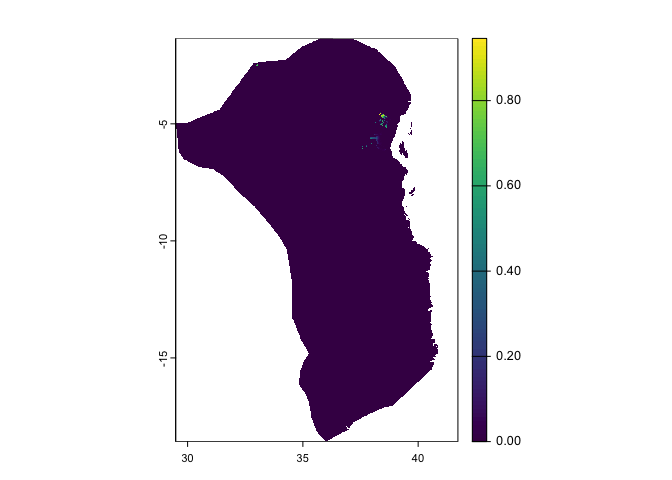
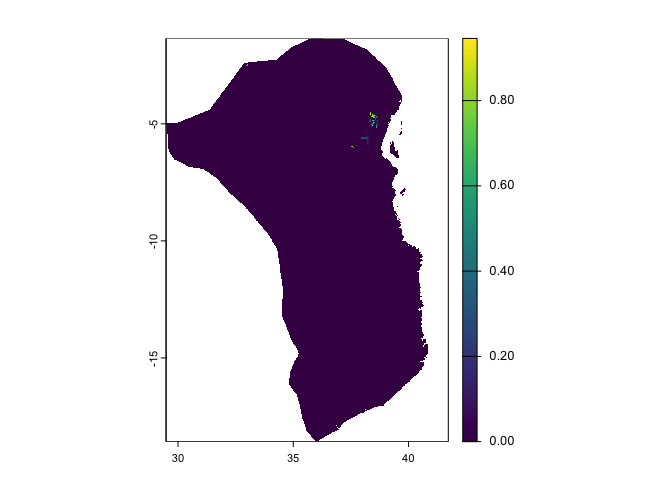
Redoing figures, adding more information on authors.

diff --git a/Appendix1.md b/Appendix1.md
@@ -1,8 +1,12 @@
 Appendix 1: *Artisornis moreaui* Distribution Modelling
 ================
-Jacob C. Cooper et al.
+Jacob C. Cooper
 
 # Introduction
+
+Code written by Jacob C. Cooper; manuscript authors are: Norbert J.
+Cordeiro, Jacob C. Cooper, Victor Mkongewa, Martin Joho, Jasson John &
+P. Kariuki Ndang’ang’a.
 
 This pipeline performs distribution analyses for *Artisornis moreaui*,
 an endemic species found only in the East Usambara, Tanzania. (Note:
@@ -73,9 +77,9 @@ utms <- cbind(arti_surveys$UTM_East,
   vect(type="points",crs="+proj=utm +zone=37 +south=T +east=T +datum=WGS84 +units=m")
 ```
 
-    ## Warning in p@ptr$setPointsXY(as.double(x[, 1]), as.double(x[, 2])): NAs
+    ## Warning in p@pntr$setPointsXY(as.double(x[, 1]), as.double(x[, 2])): NAs
     ## introduced by coercion
-    ## Warning in p@ptr$setPointsXY(as.double(x[, 1]), as.double(x[, 2])): NAs
+    ## Warning in p@pntr$setPointsXY(as.double(x[, 1]), as.double(x[, 2])): NAs
     ## introduced by coercion
 
 ``` r
@@ -116,13 +120,13 @@ write_csv(converted_data,paste0(filepath,"converted_coords.csv"))
 summary(converted_data)
 ```
 
-    ##       Date                          No_of_inds     UTM_North      
-    ##  Min.   :2006-01-14 00:00:00.00   Min.   :1.00   Min.   :9427654  
-    ##  1st Qu.:2008-05-08 00:00:00.00   1st Qu.:1.00   1st Qu.:9432568  
-    ##  Median :2010-09-06 00:00:00.00   Median :2.00   Median :9434292  
-    ##  Mean   :2011-05-14 19:57:57.75   Mean   :1.57   Mean   :9435884  
-    ##  3rd Qu.:2014-09-19 00:00:00.00   3rd Qu.:2.00   3rd Qu.:9436599  
-    ##  Max.   :2017-07-12 00:00:00.00   Max.   :4.00   Max.   :9458649  
+    ##       Date                       No_of_inds     UTM_North      
+    ##  Min.   :2006-01-14 00:00:00   Min.   :1.00   Min.   :9427654  
+    ##  1st Qu.:2008-05-08 00:00:00   1st Qu.:1.00   1st Qu.:9432568  
+    ##  Median :2010-09-06 00:00:00   Median :2.00   Median :9434292  
+    ##  Mean   :2011-05-14 19:57:57   Mean   :1.57   Mean   :9435884  
+    ##  3rd Qu.:2014-09-19 00:00:00   3rd Qu.:2.00   3rd Qu.:9436599  
+    ##  Max.   :2017-07-12 00:00:00   Max.   :4.00   Max.   :9458649  
     ##     UTM_East        Longitude        Latitude     
     ##  Min.   :452813   Min.   :38.57   Min.   :-5.178  
     ##  1st Qu.:455025   1st Qu.:38.59   1st Qu.:-5.133  
@@ -368,7 +372,7 @@ library(kuenm)
 library(curl)
 ```
 
-    ## Using libcurl 8.7.1 with LibreSSL/3.3.6
+    ## Using libcurl 8.14.1 with LibreSSL/3.3.6
 
     ## 
     ## Attaching package: 'curl'
@@ -744,7 +748,7 @@ library(terra)
 library(sf)
 ```
 
-    ## Linking to GEOS 3.11.0, GDAL 3.5.3, PROJ 9.1.0; sf_use_s2() is TRUE
+    ## Linking to GEOS 3.13.0, GDAL 3.8.5, PROJ 9.5.1; sf_use_s2() is TRUE
 
 ``` r
 library(tidyverse)
@@ -889,6 +893,10 @@ allparks <- vect(paste0(filepath,"ne_tz_parks.gpkg"))
 
 parks <- allparks[allparks$NAME%like%"Nilo"|allparks$NAME%like%"Amani"]
 
+# png(paste0(filepath, "cordeiro_fig1.png"), 
+#     width = 100, height = 100, 
+#     units = "mm", res = 300)
+
 plot(pts_vect,pch=19,col="darkgrey",
      xlab = "Longitude",ylab = "Latitude",
      xlim=c(38.45,38.75))
@@ -916,6 +924,10 @@ sbar(5,xy = c(38.5,-5),below = "km",adj = c(0.5,-1.5))
 ```
 
 ![](Appendix1_files/figure-gfm/unnamed-chunk-61-1.png)<!-- -->
+
+``` r
+# dev.off()
+```
 
 ``` r
 polyx <- rbind(poly1,poly2,poly3,
@@ -1093,6 +1105,9 @@ for(i in 0:8){
 ``` r
 pop_points2_tab <- table(pop_points2$Population) %>% as.numeric()
 
+# png(paste0(filepath,"cordeiro_fig3.png"), 
+#     width = 100, height = 100, 
+#     units = "mm", res = 300)
 barplot((pop_points2_tab),
         names.arg = 0:(length(pop_points2_tab)-1),
         xlab = "Population",
@@ -1100,6 +1115,10 @@ barplot((pop_points2_tab),
 ```
 
 ![](Appendix1_files/figure-gfm/unnamed-chunk-72-1.png)<!-- -->
+
+``` r
+# dev.off()
+```
 
 ``` r
 pop_points2 <- pop_points2 %>%
@@ -1192,13 +1211,16 @@ sbar(5,xy = c(38.5,-5.05),below = "km",adj = c(0.5,-1.5))
 ```
 
 ``` r
+# png(paste0(filepath,"cordeiro_fig2B.png"), 
+#     width = 167, height = 100, 
+#     units = "mm", res = 300)
 opar <- par(no.readonly = TRUE)
 # use par to add legend next to plot
 par(mar = c(5,5,4,8))
 baseplot(pts_vect)
 legend("topright",legend = c("Occurrence Area","Forest",
                              "PAs","PAs + Forest"),
-           fill = c("black","blue","red","purple"),
+           fill = c("black","#CCCDFF","#FFCDCD","#CBA6D9"),
        border = "black",xpd = TRUE, inset = c(-0.05,0))
 ```
 
@@ -1206,9 +1228,13 @@ legend("topright",legend = c("Occurrence Area","Forest",
 
 ``` r
 on.exit(par(opar))
+# dev.off()
 ```
 
 ``` r
+# png(paste0(filepath,"cordeiro_fig2A.png"), 
+#     width = 125, height = 100, 
+#     units = "mm", res = 300)
 # create base plot
 plot(pts_vect,pch=".",col="black",
      xlab = "Longitude",ylab = "Latitude",
@@ -1229,6 +1255,10 @@ sbar(5,xy = c(38.48,-5.05),below = "km",adj = c(0.5,-1.5))
 ```
 
 ![](Appendix1_files/figure-gfm/unnamed-chunk-81-1.png)<!-- -->
+
+``` r
+# dev.off()
+```
 
 ## Differences between models
 
@@ -1556,8 +1586,9 @@ citation("concaveman")
     ## To cite package 'concaveman' in publications use:
     ## 
     ##   Gombin J, Vaidyanathan R, Agafonkin V (2020). _concaveman: A Very
-    ##   Fast 2D Concave Hull Algorithm_. R package version 1.1.0,
-    ##   <https://CRAN.R-project.org/package=concaveman>.
+    ##   Fast 2D Concave Hull Algorithm_. doi:10.32614/CRAN.package.concaveman
+    ##   <https://doi.org/10.32614/CRAN.package.concaveman>, R package version
+    ##   1.1.0, <https://CRAN.R-project.org/package=concaveman>.
     ## 
     ## A BibTeX entry for LaTeX users is
     ## 
@@ -1567,6 +1598,7 @@ citation("concaveman")
     ##     year = {2020},
     ##     note = {R package version 1.1.0},
     ##     url = {https://CRAN.R-project.org/package=concaveman},
+    ##     doi = {10.32614/CRAN.package.concaveman},
     ##   }
 
 ``` r
@@ -1575,17 +1607,20 @@ citation("curl")
 
     ## To cite package 'curl' in publications use:
     ## 
-    ##   Ooms J (2024). _curl: A Modern and Flexible Web Client for R_. R
-    ##   package version 5.2.3, <https://CRAN.R-project.org/package=curl>.
+    ##   Ooms J (2025). _curl: A Modern and Flexible Web Client for R_.
+    ##   doi:10.32614/CRAN.package.curl
+    ##   <https://doi.org/10.32614/CRAN.package.curl>, R package version
+    ##   6.4.0, <https://CRAN.R-project.org/package=curl>.
     ## 
     ## A BibTeX entry for LaTeX users is
     ## 
     ##   @Manual{,
     ##     title = {curl: A Modern and Flexible Web Client for R},
     ##     author = {Jeroen Ooms},
-    ##     year = {2024},
-    ##     note = {R package version 5.2.3},
+    ##     year = {2025},
+    ##     note = {R package version 6.4.0},
     ##     url = {https://CRAN.R-project.org/package=curl},
+    ##     doi = {10.32614/CRAN.package.curl},
     ##   }
 
 ``` r
@@ -1595,18 +1630,20 @@ citation("data.table")
     ## To cite package 'data.table' in publications use:
     ## 
     ##   Barrett T, Dowle M, Srinivasan A, Gorecki J, Chirico M, Hocking T,
-    ##   Schwendinger B (2024). _data.table: Extension of `data.frame`_. R
-    ##   package version 1.16.0,
-    ##   <https://CRAN.R-project.org/package=data.table>.
+    ##   Schwendinger B, Krylov I (2025). _data.table: Extension of
+    ##   `data.frame`_. doi:10.32614/CRAN.package.data.table
+    ##   <https://doi.org/10.32614/CRAN.package.data.table>, R package version
+    ##   1.17.8, <https://CRAN.R-project.org/package=data.table>.
     ## 
     ## A BibTeX entry for LaTeX users is
     ## 
     ##   @Manual{,
     ##     title = {data.table: Extension of `data.frame`},
-    ##     author = {Tyson Barrett and Matt Dowle and Arun Srinivasan and Jan Gorecki and Michael Chirico and Toby Hocking and Benjamin Schwendinger},
-    ##     year = {2024},
-    ##     note = {R package version 1.16.0},
+    ##     author = {Tyson Barrett and Matt Dowle and Arun Srinivasan and Jan Gorecki and Michael Chirico and Toby Hocking and Benjamin Schwendinger and Ivan Krylov},
+    ##     year = {2025},
+    ##     note = {R package version 1.17.8},
     ##     url = {https://CRAN.R-project.org/package=data.table},
+    ##     doi = {10.32614/CRAN.package.data.table},
     ##   }
 
 ``` r
@@ -1616,17 +1653,20 @@ citation("geosphere")
 
     ## To cite package 'geosphere' in publications use:
     ## 
-    ##   Hijmans R (2022). _geosphere: Spherical Trigonometry_. R package
-    ##   version 1.5-18, <https://CRAN.R-project.org/package=geosphere>.
+    ##   Hijmans R (2024). _geosphere: Spherical Trigonometry_.
+    ##   doi:10.32614/CRAN.package.geosphere
+    ##   <https://doi.org/10.32614/CRAN.package.geosphere>, R package version
+    ##   1.5-20, <https://CRAN.R-project.org/package=geosphere>.
     ## 
     ## A BibTeX entry for LaTeX users is
     ## 
     ##   @Manual{,
     ##     title = {geosphere: Spherical Trigonometry},
     ##     author = {Robert J. Hijmans},
-    ##     year = {2022},
-    ##     note = {R package version 1.5-18},
+    ##     year = {2024},
+    ##     note = {R package version 1.5-20},
     ##     url = {https://CRAN.R-project.org/package=geosphere},
+    ##     doi = {10.32614/CRAN.package.geosphere},
     ##   }
 
 ``` r
@@ -1681,17 +1721,20 @@ citation("readxl")
 
     ## To cite package 'readxl' in publications use:
     ## 
-    ##   Wickham H, Bryan J (2023). _readxl: Read Excel Files_. R package
-    ##   version 1.4.3, <https://CRAN.R-project.org/package=readxl>.
+    ##   Wickham H, Bryan J (2025). _readxl: Read Excel Files_.
+    ##   doi:10.32614/CRAN.package.readxl
+    ##   <https://doi.org/10.32614/CRAN.package.readxl>, R package version
+    ##   1.4.5, <https://CRAN.R-project.org/package=readxl>.
     ## 
     ## A BibTeX entry for LaTeX users is
     ## 
     ##   @Manual{,
     ##     title = {readxl: Read Excel Files},
     ##     author = {Hadley Wickham and Jennifer Bryan},
-    ##     year = {2023},
-    ##     note = {R package version 1.4.3},
+    ##     year = {2025},
+    ##     note = {R package version 1.4.5},
     ##     url = {https://CRAN.R-project.org/package=readxl},
+    ##     doi = {10.32614/CRAN.package.readxl},
     ##   }
 
 ``` r
@@ -1701,8 +1744,9 @@ citation("rnaturalearth")
     ## To cite package 'rnaturalearth' in publications use:
     ## 
     ##   Massicotte P, South A (2023). _rnaturalearth: World Map Data from
-    ##   Natural Earth_. R package version 1.0.1,
-    ##   <https://CRAN.R-project.org/package=rnaturalearth>.
+    ##   Natural Earth_. doi:10.32614/CRAN.package.rnaturalearth
+    ##   <https://doi.org/10.32614/CRAN.package.rnaturalearth>, R package
+    ##   version 1.0.1, <https://CRAN.R-project.org/package=rnaturalearth>.
     ## 
     ## A BibTeX entry for LaTeX users is
     ## 
@@ -1712,6 +1756,7 @@ citation("rnaturalearth")
     ##     year = {2023},
     ##     note = {R package version 1.0.1},
     ##     url = {https://CRAN.R-project.org/package=rnaturalearth},
+    ##     doi = {10.32614/CRAN.package.rnaturalearth},
     ##   }
 
 ``` r
@@ -1720,11 +1765,11 @@ citation("rnaturalearthhires")
 
     ## To cite package 'rnaturalearthhires' in publications use:
     ## 
-    ##   South A, Michael S, Massicotte P (2024). _rnaturalearthhires: High
+    ##   South A, Michael S, Massicotte P (2025). _rnaturalearthhires: High
     ##   Resolution World Vector Map Data from Natural Earth used in
-    ##   rnaturalearth_. R package version 1.0.0.9000,
-    ##   https://github.com/ropensci/rnaturalearthhires,
-    ##   <https://docs.ropensci.org/rnaturalearthhires>.
+    ##   rnaturalearth_. R package version 1.0.0.9000, commit
+    ##   e4736f636baa1c013d77d2ba028dd5bc334defee,
+    ##   <https://github.com/ropensci/rnaturalearthhires>.
     ## 
     ## A BibTeX entry for LaTeX users is
     ## 
@@ -1732,10 +1777,9 @@ citation("rnaturalearthhires")
     ##     title = {rnaturalearthhires: High Resolution World Vector Map Data from Natural Earth used in
     ## rnaturalearth},
     ##     author = {Andy South and Schramm Michael and Philippe Massicotte},
-    ##     year = {2024},
-    ##     note = {R package version 1.0.0.9000, 
-    ## https://github.com/ropensci/rnaturalearthhires},
-    ##     url = {https://docs.ropensci.org/rnaturalearthhires},
+    ##     year = {2025},
+    ##     note = {R package version 1.0.0.9000, commit e4736f636baa1c013d77d2ba028dd5bc334defee},
+    ##     url = {https://github.com/ropensci/rnaturalearthhires},
     ##   }
 
 ``` r
@@ -1762,17 +1806,20 @@ citation("terra")
 
     ## To cite package 'terra' in publications use:
     ## 
-    ##   Hijmans R (2024). _terra: Spatial Data Analysis_. R package version
-    ##   1.7-78, <https://CRAN.R-project.org/package=terra>.
+    ##   Hijmans R (2025). _terra: Spatial Data Analysis_.
+    ##   doi:10.32614/CRAN.package.terra
+    ##   <https://doi.org/10.32614/CRAN.package.terra>, R package version
+    ##   1.8-54, <https://CRAN.R-project.org/package=terra>.
     ## 
     ## A BibTeX entry for LaTeX users is
     ## 
     ##   @Manual{,
     ##     title = {terra: Spatial Data Analysis},
     ##     author = {Robert J. Hijmans},
-    ##     year = {2024},
-    ##     note = {R package version 1.7-78},
+    ##     year = {2025},
+    ##     note = {R package version 1.8-54},
     ##     url = {https://CRAN.R-project.org/package=terra},
+    ##     doi = {10.32614/CRAN.package.terra},
     ##   }
 
 ``` r
